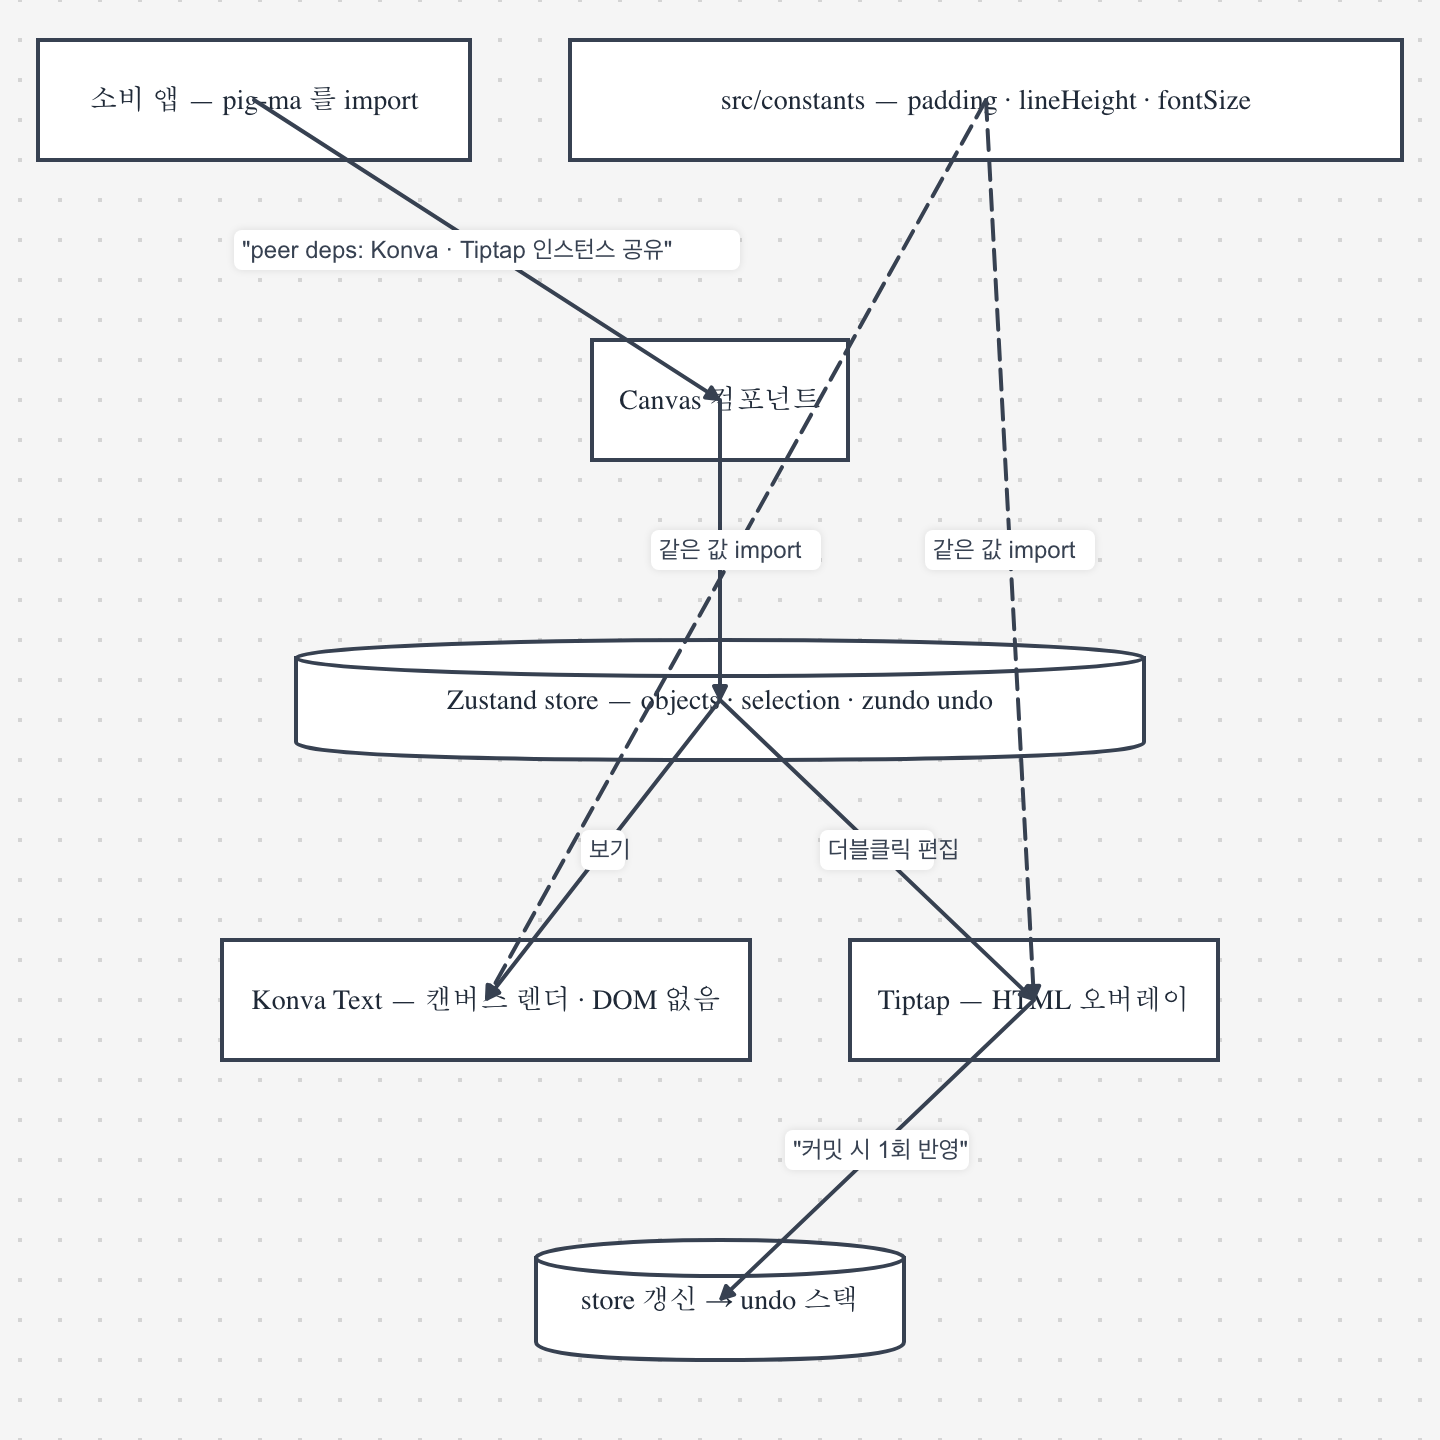
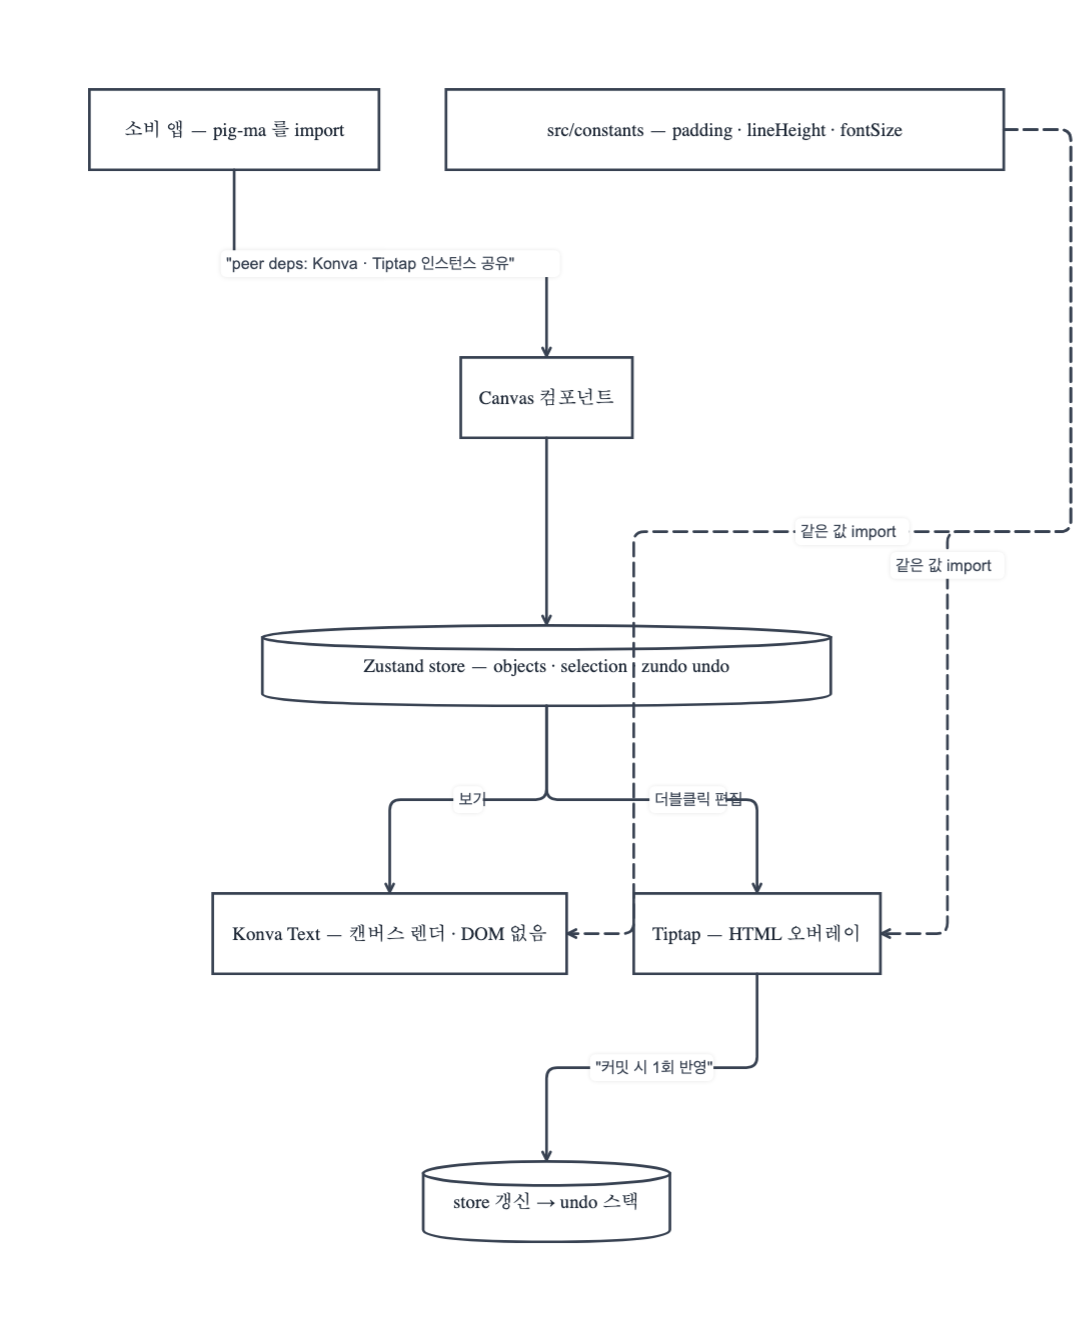
fix(mermaid): 커넥터를 도형 경계 앵커 + 엘보우 경로로 — 라벨 겹침·박스 관통 해소
Claude-Session: https://claude.ai/code/session_0178WXK6HQCrR6NYPYV2eBEP

diff --git a/src/mermaid/import.ts b/src/mermaid/import.ts
@@ -2,7 +2,7 @@ import type { CanvasObject, ShapeVariant } from "@/types";
 import { useCanvasStore } from "@/store";
 import { generateUUID } from "@/utils/uuid";
 import { parseMermaid } from "./parser";
-import { layoutGraph } from "./layout";
+import { layoutGraph, RANK_GAP } from "./layout";
 import type { MermaidGraph, MermaidNodeShape } from "./types";
 import { MermaidImportError } from "./types";
 
@@ -33,6 +33,29 @@ const NODE_STYLE = {
 };
 
 const CONNECTOR_STROKE = "#374151";
+
+type AnchorSide = "top" | "right" | "bottom" | "left";
+
+interface Rect {
+  x: number;
+  y: number;
+  width: number;
+  height: number;
+}
+
+/** 사각형에서 지정한 변의 중앙점. */
+function anchorPoint(rect: Rect, side: AnchorSide): { x: number; y: number } {
+  switch (side) {
+    case "top":
+      return { x: rect.x + rect.width / 2, y: rect.y };
+    case "bottom":
+      return { x: rect.x + rect.width / 2, y: rect.y + rect.height };
+    case "left":
+      return { x: rect.x, y: rect.y + rect.height / 2 };
+    case "right":
+      return { x: rect.x + rect.width, y: rect.y + rect.height / 2 };
+  }
+}
 
 export interface MermaidConvertResult {
   objects: CanvasObject[];
@@ -71,6 +94,42 @@ export function convertMermaid(graph: MermaidGraph): MermaidConvertResult {
   }
 
   const vertical = graph.direction === "TD" || graph.direction === "BT";
+  const reversed = graph.direction === "BT" || graph.direction === "RL";
+
+  // 흐름이 나가고 들어오는 변. attached 커넥터는 앵커가 없으면 "center" 로
+  // 해석되어 선이 도형 중심에서 출발한다 (connectorPath.ts).
+  const flowSource: AnchorSide = vertical
+    ? reversed
+      ? "top"
+      : "bottom"
+    : reversed
+      ? "left"
+      : "right";
+  const flowTarget: AnchorSide = vertical
+    ? reversed
+      ? "bottom"
+      : "top"
+    : reversed
+      ? "right"
+      : "left";
+  // 랭크를 건너뛰는 엣지는 흐름 방향 변에서 나가면 중간 랭크의 노드를 관통한다.
+  // 옆면으로 빼서 바깥으로 우회시킨다.
+  const sideAnchor: AnchorSide = vertical ? "right" : "bottom";
+
+  // 라벨은 경로 중앙(t=0.5)이 기본인데, 엘보우에서 그 지점은 랭크 사이의
+  // 공용 가로 구간이라 한 노드로 모이는(또는 한 노드에서 갈라지는) 엣지끼리
+  // 라벨이 겹친다. 겹치는 쪽을 피해 라벨을 세로 구간으로 밀어 둔다.
+  const fanIn = new Map<string, number>();
+  const fanOut = new Map<string, number>();
+  for (const edge of graph.edges) {
+    fanIn.set(edge.to, (fanIn.get(edge.to) ?? 0) + 1);
+    fanOut.set(edge.from, (fanOut.get(edge.from) ?? 0) + 1);
+  }
+  // 같은 끝점을 공유하는 엣지끼리는 순번만큼 라벨을 더 밀어 준다 —
+  // 모이면서 동시에 갈라지는 노드에서는 한쪽으로만 밀면 다시 겹친다.
+  const seenIn = new Map<string, number>();
+  const seenOut = new Map<string, number>();
+
   for (const edge of graph.edges) {
     const sourceId = objectIdByNode.get(edge.from);
     const targetId = objectIdByNode.get(edge.to);
@@ -78,13 +137,36 @@ export function convertMermaid(graph: MermaidGraph): MermaidConvertResult {
     const to = nodeLayoutById.get(edge.to);
     if (!sourceId || !targetId || !from || !to) continue;
 
-    // 시작/끝점은 방향에 맞는 변 중앙 — attached 커넥터라 도형 이동 시 재계산됨
-    const start = vertical
-      ? { x: from.x + from.width / 2, y: from.y + from.height }
-      : { x: from.x + from.width, y: from.y + from.height / 2 };
-    const end = vertical
-      ? { x: to.x + to.width / 2, y: to.y }
-      : { x: to.x, y: to.y + to.height / 2 };
+    // 랭크 간 거리로 건너뛰기를 판정한다 (한 랭크면 간격이 RANK_GAP 하나).
+    const span = vertical
+      ? Math.abs(reversed ? from.y - (to.y + to.height) : to.y - (from.y + from.height))
+      : Math.abs(reversed ? from.x - (to.x + to.width) : to.x - (from.x + from.width));
+    const skipsRank = span > RANK_GAP * 1.6;
+    const sourceAnchor = skipsRank ? sideAnchor : flowSource;
+    const targetAnchor = skipsRank ? sideAnchor : flowTarget;
+
+    // 시작/끝점은 앵커 변의 중앙 — attached 커넥터라 도형 이동 시 재계산됨
+    const start = anchorPoint(from, sourceAnchor);
+    const end = anchorPoint(to, targetAnchor);
+
+    // 모이는 엣지면 출발 쪽(각 엣지의 세로 구간이 서로 다른 x),
+    // 갈라지는 엣지면 도착 쪽으로. 둘 다면 모이는 쪽을 우선한다.
+    const converging = (fanIn.get(edge.to) ?? 0) > 1;
+    const diverging = (fanOut.get(edge.from) ?? 0) > 1;
+    const inSeq = seenIn.get(edge.to) ?? 0;
+    const outSeq = seenOut.get(edge.from) ?? 0;
+    seenIn.set(edge.to, inSeq + 1);
+    seenOut.set(edge.from, outSeq + 1);
+    const LABEL_STEP = 0.09;
+    // 모이면서 동시에 갈라지면 양끝 모두 경로가 겹친다 — 가운데 구간만 남는다.
+    const labelT =
+      converging && diverging
+        ? Math.min(0.72, 0.5 + outSeq * LABEL_STEP)
+        : converging
+          ? Math.min(0.45, 0.18 + inSeq * LABEL_STEP)
+          : diverging
+            ? Math.max(0.55, 0.82 - outSeq * LABEL_STEP)
+            : 0.5;
 
     objects.push({
       id: generateUUID(),
@@ -97,13 +179,18 @@ export function convertMermaid(graph: MermaidGraph): MermaidConvertResult {
       opacity: 1,
       sourceId,
       targetId,
-      pathStyle: "straight",
+      sourceAnchor,
+      targetAnchor,
+      // 레이어드 레이아웃이라 랭크를 가로지르는 사선보다 직교 경로가 읽기 쉽다
+      pathStyle: "elbowed",
+      elbowCornerStyle: "rounded",
       startMarker: "none",
       endMarker: edge.arrow ? "arrow" : "none",
       lineStyle: edge.style === "dotted" ? "dashed" : "solid",
       strokeWidth: edge.style === "thick" ? 4 : 2,
       stroke: CONNECTOR_STROKE,
       label: edge.label,
+      labelT,
     });
   }
 

diff --git a/src/mermaid/layout.ts b/src/mermaid/layout.ts
@@ -14,7 +14,7 @@ export interface NodeLayout {
   height: number;
 }
 
-const RANK_GAP = 90; // 랭크 사이 간격
+export const RANK_GAP = 140; // 랭크 사이 간격 — 엘보우 커넥터의 세로 구간과 엣지 라벨이 들어갈 자리
 const NODE_GAP = 50; // 같은 랭크 내 노드 간격
 const MIN_WIDTH = 120;
 const NODE_HEIGHT = 60;
